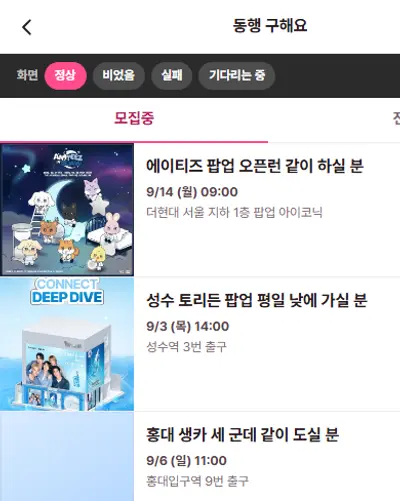
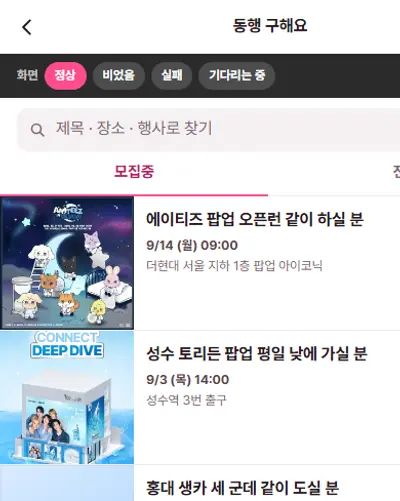
목록 검색과 콘서트 카테고리를 넣는다
**검색은 브라우저에서 거른다.** 목록이 이미 다 내려와 있어 타자를 칠
때마다 바로 좁혀진다. 서버로 보내면 글자 하나에 한 번씩 왕복한다.
제목·장소·행사명을 같이 본다. 사람들이 "성수" 로도 찾고 "에이티즈" 로도
찾는데 어느 칸에 있는지는 모른다.

글이 늘어 목록을 나눠 받게 되면 받아온 페이지 안에서만 찾게 된다.
그때는 서버로 옮겨야 한다. 주석에 적어뒀다.

검색해서 0건인 것과 원래 글이 없는 것을 다르게 그린다. 같은 문구를
띄우면 "처음으로 동행을 구해보세요" 를 검색 결과에서 보게 된다.

**콘서트 카테고리.** EventKind 에 concert 를 더하고 starts_at 을 새로
둔다. 콘서트는 그 시각에 못 가면 끝이라 open_hours 로 대신할 수 없다.
저건 "언제부터 언제까지 열려 있나" 고 이건 "몇 시에 시작하나" 다.

목데이터 4건은 **개발에서만** 섞인다. 배포에 섞으면 없는 공연을 띄우는
셈이고, 그러면 사용자가 헛걸음해서 재방문 지표가 오염된다. 제품 매력도
때문인지 데이터 품질 때문인지 구분할 수 없게 된다 (poc-plan 1번).
NODE_ENV 로 갈라 배포 번들에서 통째로 빠지고, 사이트맵과 OG 카드에도
안 들어간다. events.sample.json 규칙 그대로 이름이 전부 가상이고
제목에 [가상] 이 붙으며 source_url 은 example.com 이다.

**이벤트를 읽는 자리를 한 곳으로 모았다.** 화면마다 events.json 을 직접
import 하던 것이 일곱 곳이었다. 목데이터를 섞으려면 일곱 군데를 다
고쳐야 했고, DB 를 붙일 때도 마찬가지가 된다. lib/events-source.ts 가
그 자리다. 사이트맵만 REAL_EVENTS 를 따로 쓴다.

종류 칩은 0건이면 안 그린다. 콘서트가 아직 없을 수 있어 늘 그리면
눌러도 빈 화면인 칩이 하나 생긴다. 지금 고른 종류는 0건이어도 남긴다.
누른 칩이 사라지면 무엇을 눌렀는지 알 수 없다.

카드 세로 축소는 하지 않는다. AP 신청·수락은 1차에서 빼는 것으로
확정했다. 위키와 아직 안 맞은 항목이라 문서에 적어뒀다.

diff --git a/src/app/p/PostList.tsx b/src/app/p/PostList.tsx
@@ -54,13 +54,30 @@ const VIEWS = ['정상', '비었음', '실패', '기다리는 중'] as const
 
 export default function PostList({ posts }: { posts: ListItem[] }) {
   const [tab, setTab] = useState<(typeof TABS)[number]['key']>('open')
+  const [q, setQ] = useState('')
   const [view, setView] = useState<(typeof VIEWS)[number]>('정상')
   const [ask, setAsk] = useState(false)
 
-  const list = useMemo(
-    () => (tab === 'open' ? posts.filter((p) => p.state === 'open') : posts),
-    [posts, tab],
-  )
+  /**
+   * 상태 탭 + 검색.
+   *
+   * **브라우저에서 거른다.** 목록이 이미 다 내려와 있어서 타자 칠 때마다
+   * 바로 좁혀진다. 서버로 보내면 글자 하나에 한 번씩 왕복한다.
+   *
+   * 글이 늘어 목록을 나눠 받게 되면(페이지네이션) 이 방식은 받아온
+   * 페이지 안에서만 찾게 된다. 그때는 서버로 옮겨야 한다.
+   *
+   * 제목·장소·행사명을 다 본다. 사람들이 "성수" 로도 찾고 "에이티즈"
+   * 로도 찾는데 어느 칸에 있는지는 모른다.
+   */
+  const list = useMemo(() => {
+    const byState = tab === 'open' ? posts.filter((p) => p.state === 'open') : posts
+    const key = q.trim().toLowerCase()
+    if (!key) return byState
+    return byState.filter((p) =>
+      `${p.title} ${p.meet_place} ${p.event_title ?? ''}`.toLowerCase().includes(key),
+    )
+  }, [posts, tab, q])
 
   return (
     <PageShell title="동행 구해요">
@@ -74,6 +91,22 @@ export default function PostList({ posts }: { posts: ListItem[] }) {
       </div>
 
       <div className="plist">
+        {/* 검색은 탭 위에 둔다. 아래에 두면 탭을 바꿀 때마다 검색어가
+            남아 있는지 눈으로 확인하러 내려가야 한다 */}
+        <div className="psearch">
+          <svg viewBox="0 0 16 16" aria-hidden focusable="false">
+            <circle cx="7" cy="7" r="4.5" fill="none" stroke="currentColor" strokeWidth="1.6" />
+            <path d="M10.5 10.5L14 14" stroke="currentColor" strokeWidth="1.6" strokeLinecap="round" />
+          </svg>
+          <input
+            type="search"
+            value={q}
+            onChange={(e) => setQ(e.target.value)}
+            placeholder="제목 · 장소 · 행사로 찾기"
+            aria-label="모집글 검색"
+          />
+        </div>
+
         <div className="tabs">
           {TABS.map((t) => (
             <button
@@ -111,6 +144,21 @@ export default function PostList({ posts }: { posts: ListItem[] }) {
             title="아직 모집글이 없어요"
             desc="처음으로 동행을 구해보세요"
             action={<Button size="sm" onClick={() => setAsk(true)}>글쓰기</Button>}
+          />
+        )}
+
+        {/* 검색해서 0건인 것과 원래 글이 없는 것은 다르다. 같은 문구를
+            띄우면 "처음으로 동행을 구해보세요" 를 검색 결과에서 보게 된다 */}
+        {view === '정상' && list.length === 0 && q.trim() && (
+          <Blank
+            title={`'${q.trim()}' 로 찾은 글이 없어요`}
+            desc="다른 말로 찾아보거나 직접 글을 써보세요"
+            art={false}
+            action={
+              <Button size="sm" tone="ghost" onClick={() => setQ('')}>
+                검색어 지우기
+              </Button>
+            }
           />
         )}
 

diff --git a/src/lib/events-source.ts b/src/lib/events-source.ts
@@ -1,0 +1,46 @@
+import rawEvents from '@/data/events.json'
+import mockConcerts from '@/data/concerts.mock.json'
+import type { EventItem } from '@/types'
+
+/**
+ * 앱이 읽는 이벤트 목록.
+ *
+ * 지금까지는 화면마다 `events.json` 을 직접 import 했다. 일곱 곳이었다.
+ * 콘서트 목데이터를 섞으려면 일곱 군데를 다 고쳐야 했고, 나중에 DB 를
+ * 붙일 때도 마찬가지가 된다. **읽는 자리를 한 곳으로 모은다.**
+ *
+ * 여기가 나중에 DB 를 읽을 자리다. 빌드 때 한 번 뽑아 이 배열을
+ * 채우면 화면 코드는 그대로 돌아간다.
+ *
+ * ─────────────────────────────────────────────────────────
+ * 콘서트 목데이터는 **개발에서만** 섞인다.
+ *
+ * 크롤러가 콘서트를 안 긁고 KOPIS 오픈API 는 아직 안 붙었다.
+ * 목록에 콘서트가 한 건도 없으면 필터를 눌러도 0건이라 와이어프레임에서
+ * 확인할 수가 없다.
+ *
+ * 그렇다고 배포에 섞으면 안 된다. CLAUDE.md 가 못박은 첫 번째 규칙이
+ * "출처를 속이지 않는다" 이고, 없는 공연을 띄우면 사용자가 헛걸음한다.
+ * 그러면 재방문 지표가 오염돼 제품 매력도 때문인지 데이터 품질
+ * 때문인지 구분할 수 없게 된다 (poc-plan 1번).
+ *
+ * NODE_ENV 는 빌드 시점에 정해지므로 배포 번들에서는 이 배열이
+ * 통째로 빠진다. 사이트맵·OG 카드에도 안 들어간다.
+ *
+ * KOPIS 가 붙으면 concerts.mock.json 과 이 분기를 같이 지운다.
+ */
+const MOCK: EventItem[] =
+  process.env.NODE_ENV === 'development'
+    ? ((mockConcerts as { events: unknown[] }).events as EventItem[])
+    : []
+
+export const ALL_EVENTS: EventItem[] = [...(rawEvents as EventItem[]), ...MOCK]
+
+/**
+ * 실제 수집한 것만. 목데이터가 절대 섞이면 안 되는 자리가 쓴다.
+ *
+ * 사이트맵이 그렇다. 개발에서 사이트맵을 열어볼 일은 없지만, 한 번
+ * 섞이기 시작하면 어디까지 퍼졌는지 추적하기 어렵다. 애초에 갈래를
+ * 나눠 둔다.
+ */
+export const REAL_EVENTS: EventItem[] = rawEvents as EventItem[]

diff --git a/src/components/BrowseView.tsx b/src/components/BrowseView.tsx
@@ -1,9 +1,10 @@
 'use client'
 
 import { useMemo } from 'react'
-import type { EventItem } from '@/types'
+import type { EventItem, EventKind } from '@/types'
 import {
   DISTRICT_LABELS,
+  EVENT_KIND_LABELS,
   filterEvents,
   sortByDeadline,
   type DistrictFilter,
@@ -50,12 +51,18 @@ export default function BrowseView({ events, today, filter, onFilter, onOpen }: 
   const kindOptions = useMemo(() => {
     const pool = filter.district === 'all' ? base : base.filter((e) => e.place.district === filter.district)
     const count = (k: KindFilter) => (k === 'all' ? pool.length : pool.filter((e) => e.kind === k).length)
+    /* 0 건인 종류는 칩을 안 만든다. 콘서트는 아직 데이터가 없을 수
+       있어서(크롤러가 안 긁고 KOPIS 도 안 붙었다) 늘 그리면 눌러도
+       빈 화면인 칩이 하나 생긴다. 지금 고른 종류는 0 건이어도 남긴다.
+       누른 칩이 사라지면 무엇을 눌렀는지 알 수 없다 */
+    const kinds: KindFilter[] = ['birthday_cafe', 'popup', 'concert']
     return [
       { value: 'all' as KindFilter, label: `전체 ${count('all')}` },
-      { value: 'birthday_cafe' as KindFilter, label: `생카 ${count('birthday_cafe')}` },
-      { value: 'popup' as KindFilter, label: `팝업 ${count('popup')}` },
+      ...kinds
+        .filter((k) => count(k) > 0 || filter.kind === k)
+        .map((k) => ({ value: k, label: `${EVENT_KIND_LABELS[k as EventKind]} ${count(k)}` })),
     ]
-  }, [base, filter.district])
+  }, [base, filter.district, filter.kind])
 
   const districtOptions = useMemo(() => {
     const pool = filter.kind === 'all' ? base : base.filter((e) => e.kind === filter.kind)

diff --git a/src/app/ui.css b/src/app/ui.css
@@ -2014,3 +2014,36 @@
 .bo__when { font-variant-numeric: tabular-nums; }
 .bo__actcol { text-align: right; white-space: nowrap; }
 .bo__acts { display: inline-flex; gap: 6px; }
+
+/* ── 모집글 검색 ─────────────────────────────────────────
+   행사 고르기(.epick__search)와 같은 모양을 쓴다. 같은 일을 하는
+   칸이 화면마다 다르게 생기면 어느 쪽이 검색인지 매번 다시 알아봐야
+   한다. 클래스를 공유하지 않는 것은 그쪽이 시트 안에 들어 있어
+   여백 규칙이 다르기 때문이다.
+   ------------------------------------------------------- */
+
+.psearch {
+  display: flex;
+  align-items: center;
+  gap: 8px;
+  margin: 10px var(--gutter) 0;
+  padding: 0 12px;
+  height: 42px;
+  border-radius: var(--radius-sm);
+  background: var(--field-off-bg);
+}
+.psearch svg { flex: 0 0 auto; width: 16px; height: 16px; color: var(--text-mute); }
+.psearch input {
+  flex: 1;
+  min-width: 0;
+  border: 0;
+  background: none;
+  /* iOS 확대를 막으려면 16px 밑으로 내려가면 안 된다 (CLAUDE.md) */
+  font: inherit;
+  font-size: var(--t-body);
+  color: var(--text);
+}
+.psearch input::placeholder { color: var(--text-mute); }
+.psearch input:focus { outline: none; }
+/* 브라우저가 붙이는 기본 X 를 지운다. 지우기는 결과 없음 화면에 둔다 */
+.psearch input::-webkit-search-cancel-button { display: none; }

diff --git a/src/app/e/[id]/page.tsx b/src/app/e/[id]/page.tsx
@@ -1,6 +1,6 @@
 import type { Metadata } from 'next'
 import { notFound } from 'next/navigation'
-import rawEvents from '@/data/events.json'
+import { ALL_EVENTS } from '@/lib/events-source'
 import type { EventItem } from '@/types'
 import { DISTRICT_LABELS, EVENT_KIND_LABELS } from '@/lib/filters'
 
@@ -25,7 +25,7 @@ import { DISTRICT_LABELS, EVENT_KIND_LABELS } from '@/lib/filters'
  * 새 CSS 를 만들면 상세 화면이 두 벌이 되고 톤이 갈린다.
  */
 
-const ALL = rawEvents as EventItem[]
+const ALL = ALL_EVENTS
 
 // 데이터에 없는 id 는 404 로 떨어뜨린다. 동적 렌더를 허용하면 존재하지 않는
 // 주소가 200 을 돌려주고 색인에 쓰레기가 쌓인다
@@ -96,6 +96,9 @@ export default async function EventPage({ params }: { params: Promise<{ id: stri
     ['주소', ev.place.address],
     ['기간', `${ev.starts_on} ~ ${ev.ends_on}`],
   ]
+  /* 콘서트는 시작 시각이 곧 정보다. 그 시각에 못 가면 끝이라
+     운영 시간과 다르게 다룬다. 생카·팝업은 기간 중 아무 때나 가면 된다 */
+  if (ev.starts_at) rows.push(['공연 시작', `${ev.starts_on} ${ev.starts_at}`])
   if (ev.open_hours) rows.push(['운영 시간', ev.open_hours])
   if (ev.perks) rows.push(['특전', ev.perks])
   if (ev.conditions) rows.push(['조건', ev.conditions])

diff --git a/src/types.ts b/src/types.ts
@@ -27,7 +27,7 @@ export type PlaceKind = 'cafe' | 'popup_venue'
 /** 생카는 이미 버추얼·애니 캐릭터·배우로 확장됐다. 아이돌에 묶지 않는다 */
 export type SubjectType = 'idol' | 'virtual' | 'character' | 'actor'
 
-export type EventKind = 'birthday_cafe' | 'popup'
+export type EventKind = 'birthday_cafe' | 'popup' | 'concert'
 
 /**
  * 데이터 출처 등급.
@@ -66,7 +66,21 @@ export interface EventItem {
   /** YYYY-MM-DD. 사전순 비교가 곧 날짜 비교가 된다 */
   starts_on: string
   ends_on: string
+  /**
+   * 운영 시간. '12:00~20:00' 처럼 이미 다듬은 문자열이다.
+   * 생카·팝업은 기간 안에서 매일 같은 시간에 연다.
+   */
   open_hours?: string
+  /**
+   * 공연 시작 시각 'HH:mm'. **콘서트만 갖는다.**
+   *
+   * 생카·팝업은 기간 중 아무 때나 가면 되지만 콘서트는 그 시각에
+   * 못 가면 끝이다. open_hours 로 대신할 수 없다. 저건 "언제부터
+   * 언제까지 열려 있나" 고 이건 "몇 시에 시작하나" 다.
+   *
+   * 콘서트는 starts_on 과 ends_on 이 같은 날이다.
+   */
+  starts_at?: string
   /** 선착 n명, 컵홀더 등 */
   perks?: string
   /** 음료 1잔 주문 등 */

diff --git a/src/app/p/new/page.tsx b/src/app/p/new/page.tsx
@@ -1,5 +1,5 @@
 import type { Metadata } from 'next'
-import rawEvents from '@/data/events.json'
+import { ALL_EVENTS } from '@/lib/events-source'
 import type { EventItem } from '@/types'
 import { DISTRICT_LABELS, EVENT_KIND_LABELS } from '@/lib/filters'
 import type { PickableEvent } from '@/components/ui/EventPicker'
@@ -14,7 +14,7 @@ export const metadata: Metadata = {
 /* 고르기 목록에 필요한 값만 잘라서 넘긴다. events.json 은 160KB 라
    통째로 클라이언트에 실으면 쓰기 화면 하나가 그만큼 무거워진다.
    여기서 자르면 빌드타임에 한 번만 돈다 */
-const PICKABLE: PickableEvent[] = (rawEvents as EventItem[]).map((e) => ({
+const PICKABLE: PickableEvent[] = ALL_EVENTS.map((e) => ({
   id: e.id,
   subject: e.subject,
   /* 원문에 행사명이 없는 건이 있다. 이벤트 상세와 같은 폴백을 쓴다 */

diff --git a/src/app/dev/gallery/page.tsx b/src/app/dev/gallery/page.tsx
@@ -1,5 +1,5 @@
 import type { Metadata } from 'next'
-import rawEvents from '@/data/events.json'
+import { ALL_EVENTS } from '@/lib/events-source'
 import type { EventItem } from '@/types'
 import { DISTRICT_LABELS, EVENT_KIND_LABELS } from '@/lib/filters'
 import type { PickableEvent } from '@/components/ui/EventPicker'
@@ -16,7 +16,7 @@ export const metadata: Metadata = {
    자른다. 갤러리는 조각이 실제로 어떻게 도는지 보는 자리라
    가짜 배열을 만들어 넣으면 보는 의미가 없다.
    60건이면 "40개 넘으면 검색하라" 는 줄까지 눌러볼 수 있다 */
-const PICKABLE: PickableEvent[] = (rawEvents as EventItem[]).slice(0, 60).map((e) => ({
+const PICKABLE: PickableEvent[] = ALL_EVENTS.slice(0, 60).map((e) => ({
   id: e.id,
   subject: e.subject,
   title: e.title ?? `${e.subject} ${EVENT_KIND_LABELS[e.kind]}`,

diff --git a/src/app/sitemap.ts b/src/app/sitemap.ts
@@ -1,5 +1,5 @@
 import type { MetadataRoute } from 'next'
-import rawEvents from '@/data/events.json'
+import { REAL_EVENTS } from '@/lib/events-source'
 import type { EventItem } from '@/types'
 import { siteUrl } from '@/lib/site'
 import { shareSlug } from '@/lib/subject-slug'
@@ -12,7 +12,7 @@ import { shareSlug } from '@/lib/subject-slug'
  * 빌드타임 정적 생성이므로 데이터가 갱신되면 재배포가 곧 사이트맵 갱신이다.
  */
 export default function sitemap(): MetadataRoute.Sitemap {
-  const events = rawEvents as EventItem[]
+  const events = REAL_EVENTS
 
   // 대상별 목록. 롱테일 검색("정국 생일카페")이 홈이 아니라 여기로 들어와야 한다.
   // 개별 이벤트보다 상위로 둔다. 한 대상에 여러 곳이 걸리는 쪽이 답에 가깝다

diff --git a/src/app/a/[subject]/opengraph-image.tsx b/src/app/a/[subject]/opengraph-image.tsx
@@ -1,7 +1,7 @@
 import { readFileSync } from 'node:fs'
 import path from 'node:path'
 import { ImageResponse } from 'next/og'
-import rawEvents from '@/data/events.json'
+import { ALL_EVENTS } from '@/lib/events-source'
 import type { EventItem } from '@/types'
 import { DISTRICT_LABELS, EVENT_KIND_LABELS } from '@/lib/filters'
 import { SUBJECT_SLUGS, resolveSubject } from '@/lib/subject-slug'
@@ -24,7 +24,7 @@ export const dynamic = 'force-static'
  * 그 사람을 센 것처럼 읽힌다. 지도 핀과 같은 규칙으로 숫자만 배지에 넣는다.
  */
 
-const ALL = rawEvents as EventItem[]
+const ALL = ALL_EVENTS
 
 /** 카드에 올릴 사진 수. 세 장이면 한 줄이 차고, 더 넣으면 각각이 너무 작아진다 */
 const SHOTS = 3

diff --git a/src/app/page.tsx b/src/app/page.tsx
@@ -1,8 +1,7 @@
 'use client'
 
 import { useCallback, useEffect, useMemo, useRef, useState } from 'react'
-import rawEvents from '@/data/events.json'
-import type { EventItem } from '@/types'
+import { ALL_EVENTS } from '@/lib/events-source'
 import {
   defaultFilter,
   filterEvents,
@@ -20,8 +19,6 @@ import { closeDetailRoute, openDetailRoute, useRoute } from '@/lib/route'
 import { loadCourse, persistCourse } from '@/lib/course'
 import { SaveProvider, type SaveApi } from '@/components/SaveContext'
 import CourseView from '@/components/CourseView'
-
-const ALL_EVENTS = rawEvents as EventItem[]
 
 export default function Page() {
   // 오늘 날짜는 클라이언트에서만 확정한다.

diff --git a/src/app/a/[subject]/page.tsx b/src/app/a/[subject]/page.tsx
@@ -1,6 +1,6 @@
 import type { Metadata } from 'next'
 import { notFound } from 'next/navigation'
-import rawEvents from '@/data/events.json'
+import { ALL_EVENTS } from '@/lib/events-source'
 import type { EventItem } from '@/types'
 import { DISTRICT_LABELS, EVENT_KIND_LABELS } from '@/lib/filters'
 import { SUBJECT_SLUGS, resolveSubject } from '@/lib/subject-slug'
@@ -22,7 +22,7 @@ import { SUBJECT_SLUGS, resolveSubject } from '@/lib/subject-slug'
  * 클래스는 globals.css 의 기존 어휘(sheet/dlist/drow)를 그대로 쓴다.
  */
 
-const ALL = rawEvents as EventItem[]
+const ALL = ALL_EVENTS
 
 export const dynamicParams = false
 
